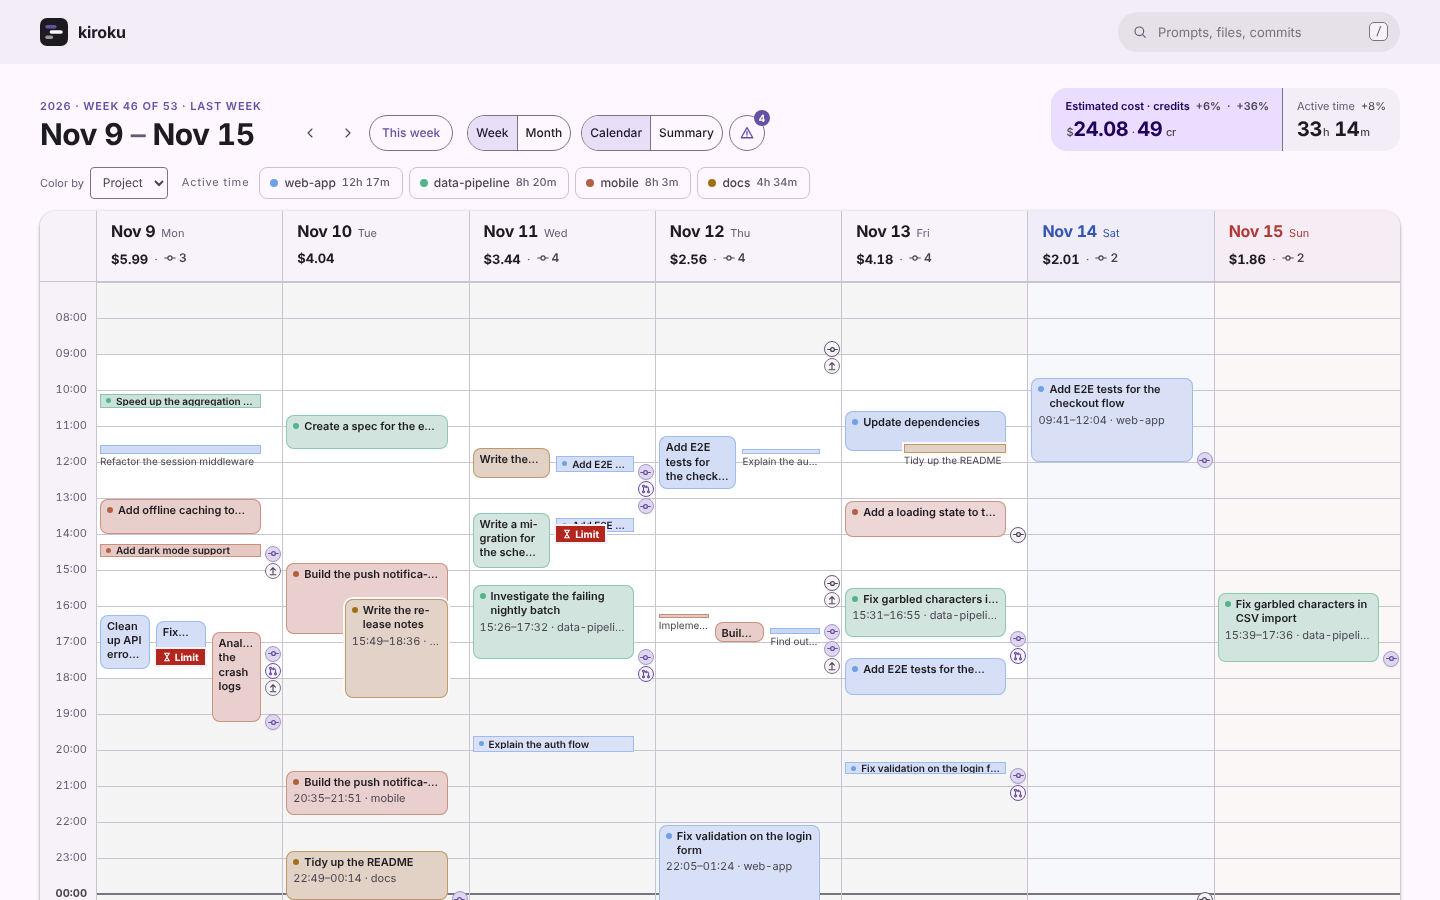
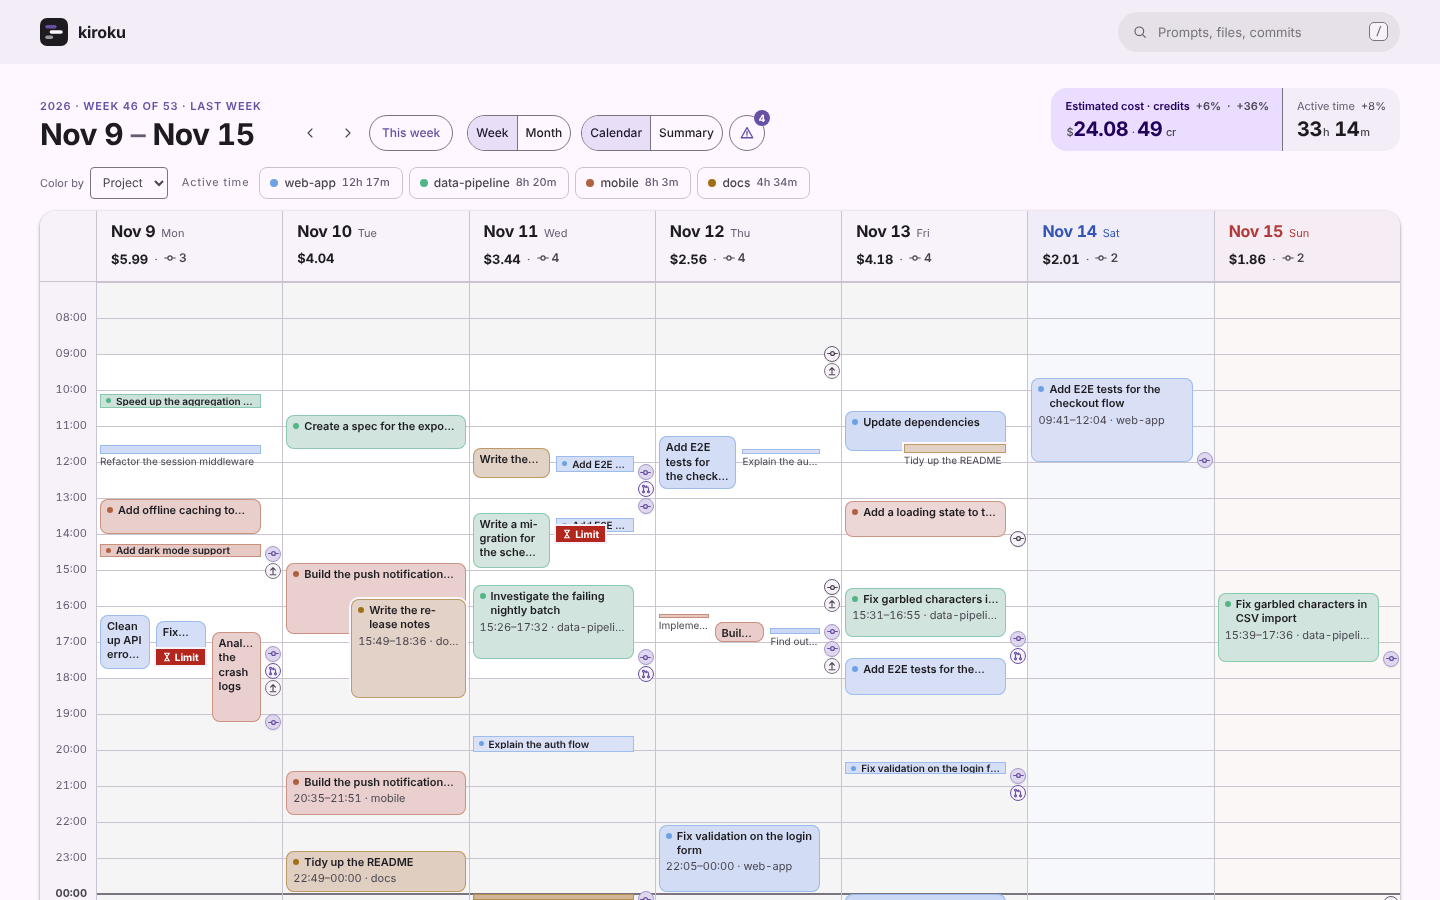
Week calendar keeps early hours in their own date's column
Draw 7:00 to midnight first and the same day's 0:00-7:00 at the bottom,
instead of moving early hours to the previous day's column. Blocks that
cross 7:00 split into the two parts. Hide the summary's agent switch in
the calendar view.

diff --git a/internal/web/js/calendar.js b/internal/web/js/calendar.js
@@ -184,17 +184,15 @@ function monthGrid(shown, ms, me, todayKey){
   T.querySelectorAll("[data-w]").forEach(b => b.onclick = () => { const [y,m,dd] = b.dataset.w.split("-").map(Number); st.week = new Date(y, m-1, dd); setMode("week"); });
 }
 
-// 週のカレンダーの 1 日は、朝 CAL_D0 時から次の朝 CAL_D0 時まで。夜中（0〜7 時）の作業はその前の日の列の下に続けて描き、
-// 最初の画面に朝からの作業の時間帯が入るようにする（夜中の記録は消さずに、前の日の夜の続きとして読める）
+// 週のカレンダーの列は、その日の 0 時から 24 時まで（見出しの数字と同じ）。描く順は、朝 CAL_D0 時から 24 時までを上に、
+// その日の 0 時から CAL_D0 時（明け方）をその下に。最初の画面に朝からの作業の時間帯が入り、明け方の作業もその日の列に残る
 const CAL_D0 = 7;
-// calY は、時刻（時。0〜23）のカレンダーの上からの位置（px）。CAL_D0 時が上の端、0 時は 24 − CAL_D0 時間ぶん下
+// calY は、時刻（時）の、列の上からの位置（px）。CAL_D0 時が上の端、0 時は 24 − CAL_D0 時間ぶん下
 function calY(h){ return ((h - CAL_D0 + 24) % 24) * (st.hh || 44); }
-// colH は、その列（day の CAL_D0 時から）の始まりから t までの時間（0〜24 時間）
-function colH(day, t){ return Math.min(24, Math.max(0, clockH0(day, t) - CAL_D0)); }
-function clockH0(d, t){ const x = new Date(t*1000); return (x.getTime() - x.getTimezoneOffset()*6e4 - Date.UTC(d.getFullYear(), d.getMonth(), d.getDate()))/36e5; } // clockH と同じで、24 時を超えても切らない
-const colStart = d => { const x = addDays(st.week, d); x.setHours(CAL_D0); return x.getTime()/1000; }; // d 列目の始まり（その日の CAL_D0 時）
+// colH は、day の列での時刻 t の縦の位置（時間。0〜24）。end なら区間の終わりとして（CAL_D0 時ちょうどは明け方の帯の下の端）
+function colH(day, t, end){ const h = clockH(day, t); return h >= CAL_D0 && !(end && h === CAL_D0) ? h - CAL_D0 : h + 24 - CAL_D0; }
 
-/* 週のカレンダー：曜日が列、時刻が縦（朝 CAL_D0 時から次の朝 CAL_D0 時まで）。重なるセッションだけ横に並べる */
+/* 週のカレンダー：曜日が列、時刻が縦（朝 CAL_D0 時から 24 時、その下に明け方）。重なるセッションだけ横に並べる */
 function timeline(shown, inWeek, ws, we, todayKey){
   const T = $("#tl"), hh = st.hh || 44, Y = x => x * hh, H = Y(24);
   if (inWeek.length && !shown.length && st.q && !DATA.some(matches)){ T.innerHTML = ""; return; } // 検索がどこにも当たらないときは、上の検索結果の「ない」だけにする
@@ -208,27 +206,27 @@ function timeline(shown, inWeek, ws, we, todayKey){
   const keep = T.querySelector(".calscroll"), top = keep ? keep.scrollTop : null;
   const nowS = nowMs()/1000, w = WEEKS[key(st.week)];
   let heads = '<div></div>', hours = "", cols = "";
-  const tws = colStart(0), twe = colStart(7), nowIn = nowS >= tws && nowS < twe; // カレンダーに描く範囲（月曜の朝から次の月曜の朝まで）
-  const nowCol = nowIn ? [0,1,2,3,4,5,6].find(d => nowS < colStart(d + 1)) : -1, nowH = nowIn ? colH(addDays(st.week, nowCol), nowS) : -9;
-  // 時刻は朝 CAL_D0+1 時から次の朝 CAL_D0−1 時まで。0 時（日付の変わり目）は線を濃くする（.day の --mid）。
+  const nowIn = nowS >= ws && nowS < we, nowCol = nowIn ? [0,1,2,3,4,5,6].find(d => nowS < addDays(st.week, d + 1).getTime()/1000) : -1, nowH = nowIn ? colH(today0(), nowS) : -9;
+  // 時刻は朝 CAL_D0+1 時から 23 時、0 時から CAL_D0−1 時。0 時（明け方の帯の始まり）は線を濃くする（.day の --mid）。
   // 今の時刻の札（高さ約 20px）に重なる時刻は、消さずに札の上か下へずらして薄く出す（12:00 が見えなくならないように）
   for (let i=1; i<24; i++){ const h = (i + CAL_D0) % 24, d = Y(i) - Y(nowH), near = nowIn && Math.abs(d) < 20;
     hours += `<span class="${[near ? "near" : "", h === 0 ? "mid" : "", h < CAL_D0 ? "late" : ""].filter(Boolean).join(" ")}" style="top:${near ? Y(nowH) + (d >= 0 ? 20 : -20) : Y(i)}px">${String(h).padStart(2,"0")}:00</span>`; }
   if (nowIn) hours += `<span class="now" style="top:${Y(nowH)}px">${hm(nowS)}</span>`;
-  shown = DATA.filter(s => s.end >= tws && s.start < twe).filter(matches); // 夜中の続き（次の月曜の朝まで）も描く
   const runs = [], un = filtering() ? 1 : 0, G = gitShown(shown), kinds = useKinds(w ? w.days : []);
   for (let d=0; d<7; d++){
-    const day = addDays(st.week,d), hds = day.getTime()/1000, hde = addDays(st.week,d+1).getTime()/1000, isToday = key(day) === todayKey;
-    const ds = colStart(d), de = colStart(d + 1); // 列に描く範囲（その日の朝 CAL_D0 時から次の朝まで）。見出しの数字は 0 時から 24 時まで（上の帯・サマリーと同じ）
+    const day = addDays(st.week,d), ds = day.getTime()/1000, de = addDays(st.week,d+1).getTime()/1000, isToday = key(day) === todayKey;
+    const d0 = new Date(day); d0.setHours(CAL_D0); const dv = d0.getTime()/1000; // その日の朝 CAL_D0 時（帯はここで上下に分ける）
     const act = w && w.days[d] ? w.days[d].active : 0;
-    const dW = w && w.days[d], nS = shown.filter(s => inP(s, hds, hde)).length;
-    const headGit = G.filter(c => c.t >= hds && c.t < hde), dayGit = G.filter(c => c.t >= ds && c.t < de).sort((a,b) => a.t - b.t);
-    heads += `<div class="head${isToday?" today":""}${wkc(day.getDay())}"><div class="dd"><b>${dMD(day)}</b><i>${dow(day.getDay())}</i>${(act || headGit.length) ? (run => `<button class="pill dayrun ${run ? "ai-action" : "ai-copy"}" data-d="${d}" type="button" aria-label="${esc(run ? t("Analyze with AI: daily report for {date}", {date: md(hds)}) : t("Copy the daily report prompt for {date}", {date: md(hds)}))}" title="${esc(run ? t("Analyze with AI: daily report for {date}", {date: md(hds)}) : t("Copy the daily report prompt for {date}", {date: md(hds)}))}">${ico(run ? "ai" : "copy")}<span>${esc(run ? t("Analyze with AI") : t("Copy prompt"))}</span></button>`)(aiRun() || aiDemo()) : ""}</div>${act || headGit.length ? `<div${tipAttr(md(hds), [`${t("Active")} ${dur(act)}`, `${t("Sessions")} ${nS}`, ...useLines(dW), `${t("Git commits")} ${headGit.length}`])}>${calLine(calRows(act, dW, nS, headGit.length, kinds, un))}</div>` : `<small>—</small>`}</div>`; // まだ来ていない日に「目安」は置かない（同じ額が上の帯の「前の週並みの 1 日の目安」にある）
+    const dW = w && w.days[d], nS = shown.filter(s => inP(s, ds, de)).length;
+    const dayGit = G.filter(c => c.t >= ds && c.t < de).sort((a,b) => a.t - b.t);
+    heads += `<div class="head${isToday?" today":""}${wkc(day.getDay())}"><div class="dd"><b>${dMD(day)}</b><i>${dow(day.getDay())}</i>${(act || dayGit.length) ? (run => `<button class="pill dayrun ${run ? "ai-action" : "ai-copy"}" data-d="${d}" type="button" aria-label="${esc(run ? t("Analyze with AI: daily report for {date}", {date: md(ds)}) : t("Copy the daily report prompt for {date}", {date: md(ds)}))}" title="${esc(run ? t("Analyze with AI: daily report for {date}", {date: md(ds)}) : t("Copy the daily report prompt for {date}", {date: md(ds)}))}">${ico(run ? "ai" : "copy")}<span>${esc(run ? t("Analyze with AI") : t("Copy prompt"))}</span></button>`)(aiRun() || aiDemo()) : ""}</div>${act || dayGit.length ? `<div${tipAttr(md(ds), [`${t("Active")} ${dur(act)}`, `${t("Sessions")} ${nS}`, ...useLines(dW), `${t("Git commits")} ${dayGit.length}`])}>${calLine(calRows(act, dW, nS, dayGit.length, kinds, un))}</div>` : `<small>—</small>`}</div>`; // まだ来ていない日に「目安」は置かない（同じ額が上の帯の「前の週並みの 1 日の目安」にある）
     const blocks = [];
-    shown.forEach(s => s.segs.forEach(([a,b,n]) => { const x = Math.max(a,ds), y = Math.min(b,de); if (y > x) blocks.push({s, a:x, b:y, n}); }));
-    blocks.sort((p,q) => p.a-q.a || q.b-p.b);
+    // 朝 CAL_D0 時をまたぐ帯は、明け方の分（下）と朝からの分（上）に分ける
+    shown.forEach(s => s.segs.forEach(([a,b,n]) => { const x = Math.max(a,ds), y = Math.min(b,de); if (y <= x) return;
+      if (x < dv && y > dv){ blocks.push({s, a:x, b:dv, n}, {s, a:dv, b:y, n}); } else blocks.push({s, a:x, b:y, n}); }));
     let html = "";
-    blocks.forEach(bk => { bk.y = Y(colH(day, bk.a)); bk.h = Math.max(4, Y(colH(day, bk.b)) - Y(colH(day, bk.a)) - 2); });
+    blocks.forEach(bk => { bk.y = Y(colH(day, bk.a)); bk.h = Math.max(4, Y(colH(day, bk.b, true)) - bk.y - 2); });
+    blocks.sort((p,q) => p.y-q.y || q.h-p.h); // 重なりの置き方は、上から順に
     // 重なる帯の置き方（l・w は溝を除いた幅に対する左端と幅の割合）。ほぼ同時に始まった帯（CASCADE px 以内。名前の 1 行目が見える高さ）はかたまりにして横に並べ、
     // それより後に始まった帯は、前の帯の上に右へずらして重ねる。前の帯は名前のある上の部分が隠れないので、幅いっぱいのまま読める
     // （重なれば最後まで 1/L の幅にすると、並行して動かすことの多い人ほど名前が数文字しか読めない）。見た目で重なるか（短い帯の下の名前も入れる）で決める
@@ -259,9 +257,9 @@ function timeline(shown, inWeek, ws, we, todayKey){
     const showP = p => (!st.hidden.size || st.colorBy !== "project" || !st.hidden.has(p.project)) && (!st.q || shown.some(s => s.project === p.project && p.t >= s.start && p.t <= s.end + 600)); // 検索中は、一致したセッションの間の push だけ（詳細のプロンプトの流れと同じ範囲）
     const marks = [...dayGit.map(c => ({t: c.t, c})),
       ...(META.push || []).filter(p => p.t >= ds && p.t < de && showP(p)).map(p => ({t: p.t, p})),
-      ...shown.flatMap(s => (s.prAt || []).filter(x => x.t >= ds && x.t < de).map(x => ({t: x.t, r: x, s})))].sort((a, b) => a.t - b.t);
+      ...shown.flatMap(s => (s.prAt || []).filter(x => x.t >= ds && x.t < de).map(x => ({t: x.t, r: x, s})))].map(m => ({...m, y0: Y(colH(day, m.t))})).sort((a, b) => a.y0 - b.y0 || a.t - b.t);
     // 印の縦の位置：重ならないよう下へ積み、日の終わり（24:00）を越える分は上へ戻す（夜遅い印が枠の外に出て見えなくならないように）
-    const ys = []; { let g = -99; marks.forEach(m => { g = Math.max(Y(colH(day, m.t)), g + 17); ys.push(g); });
+    const ys = []; { let g = -99; marks.forEach(m => { g = Math.max(m.y0, g + 17); ys.push(g); });
       for (let i = ys.length - 1; i >= 0; i--) ys[i] = Math.min(ys[i], i === ys.length - 1 ? H - 16 : ys[i+1] - 17); }
     marks.forEach(({t: at, c, p, r, s}, mi) => { // 読み上げの名前には日付も入れる（セッションと同じく、どの日のものかわかるように）
       const y = ys[mi];

diff --git a/internal/web/style.css b/internal/web/style.css
@@ -865,7 +865,7 @@ html:lang(ja){word-break:auto-phrase} /* 日本語は文節の切れ目で折り
    1 度に見せるのはどちらか 1 つ（上の期間・数字・見直す候補・凡例は共通）。
    広い画面ではページを画面に固定して、カレンダーは残りの高さいっぱい、スクロールはカレンダーの中だけにする
    （ページとカレンダーが二重にスクロールして、ホイールがカレンダーに取られないように）。境目は影と余白ではっきりさせる */
-body[data-view="cal"] #review>.rvhead,body[data-view="cal"] #review>.insight,body[data-view="cal"] #review .rvgrid>:not(.metap){display:none} /* カレンダーの表示でも、データソースとページの下（版・問題の報告）は出す */
+body[data-view="cal"] #review>.rvhead,body[data-view="cal"] #review>.insight,body[data-view="cal"] #review>.insagbar,body[data-view="cal"] #review .rvgrid>:not(.metap){display:none} /* カレンダーの表示でも、データソースとページの下（版・問題の報告）は出す */
 body[data-view="cal"] #review .rvgrid{display:block}
 body[data-view="cal"] #review{margin-top:28px} /* カレンダーの下端とデータソースのあいだを空ける */
 body[data-view="sum"] #tl,body[data-view="sum"] #skipcal{display:none}

diff --git a/docs/guide.md b/docs/guide.md
@@ -102,7 +102,7 @@ The old forms `kiroku --serve`, `--json`, `-o` and `--weekly` / `--monthly` have
   - A session's "Files edited by AI": a file changed by a commit made during that session opens the page for that file as of that commit
   - A session's "Pull requests created": opens pull requests created by AI (URLs that appeared in the results of `gh pr create` or GitHub tools)
   - A session's "History file" (under "More details" in session details): opens the original history of that session. In `kiroku serve`, "Open" saves it from the view (only history files of loaded sessions, inside the folders kiroku reads history from or `kiroku archive`'s folder, are served, and only to the view on your machine); in `kiroku html` it opens via `file://`. SQLite histories cannot be opened, so you can only copy the path
-- The page shows either the calendar or the weekly or monthly summary: switch with View "Calendar | Summary" next to Week | Month (or `V`); kiroku remembers the choice. Only the page scrolls: nothing is fixed, the top scrolls away, and the week calendar shows each day from 7:00 to 7:00 the next morning with no scroll of its own, so the working hours fit the first screen; work after midnight continues at the bottom of the previous day's column, below a darker line at 00:00. The figures under each date still count from midnight to midnight, like the band and the summary. The day headings stick under the page header while you scroll, so you always see which day is which; on narrow windows the calendar scrolls sideways and the headings follow it. When you open this week and its work starts further down, the page opens scrolled to that hour (scroll up for the figures; not in the demo). Data sources and the footer (when the page was made, the version and a link to GitHub) are at the bottom in both views.
+- The page shows either the calendar or the weekly or monthly summary: switch with View "Calendar | Summary" next to Week | Month (or `V`); kiroku remembers the choice. Only the page scrolls: nothing is fixed, the top scrolls away, and the week calendar shows the whole day with no scroll of its own, from 7:00 to midnight first, so the working hours fit the first screen, and the same day's early hours (0:00–7:00) at the bottom, below a darker line at 00:00. Work stays in the column of its date; a session running past midnight continues at the bottom of the next day's column. The day headings stick under the page header while you scroll, so you always see which day is which; on narrow windows the calendar scrolls sideways and the headings follow it. When you open this week and its work starts further down, the page opens scrolled to that hour (scroll up for the figures; not in the demo). Data sources and the footer (when the page was made, the version and a link to GitHub) are at the bottom in both views.
 - The summary is one page of cards (see [Weekly and monthly summary](#weekly-and-monthly-summary)); nothing is folded. Press a figure's value to open its breakdown, or its "?" for what it means
   - Worth a look: a metric that crossed a threshold has a small warning triangle next to its name in the summary; press it to open the same dialog as "Worth a look" above. Its 8-week trend (8 months in month view) starts at the first period with records, labels that period and the one shown with their values, and says whether higher or lower is worth a look. A metric is flagged by a fixed threshold, shown right under the headline in the dialog ("Threshold: 1+ hit"), not by being high or low within its trend. To see whether something you tried worked, check the trend in later periods
   - At the bottom, "Data sources" (history read, the newest agent version seen and record kinds kiroku doesn't know, retention and the price table for estimated cost; agents with no sessions are folded under "Not found: N") at the very bottom, always folded into one line; a ⚠ next to its name marks something that needs your attention (a file that couldn't be read, history about to be deleted at its default setting or at the next cleanup because Kiro Crew keeps it 0 days, or models not in the price table, or models priced as a similar model ID). The footer under it shows when the view was generated, the kiroku version (a link to its release) and a link to the GitHub repository; they only open in your browser when you press them. To report a problem, run `kiroku doctor --report` and paste its output (kinds and counts only) into a new issue

diff --git a/changes/calendar-7am.changed.md b/changes/calendar-7am.changed.md
@@ -1,3 +1,3 @@
-- Week calendar: each day runs from 7:00 to 7:00 the next morning, so the working hours fit the first screen; work after midnight continues at the bottom of the previous day's column, below a darker line at 00:00. The figures under each date still count from midnight
+- Week calendar: each day shows 7:00 to midnight first, so the working hours fit the first screen, and that day's early hours (0:00–7:00) at the bottom, below a darker line at 00:00. Work stays in the column of its date
 - Session details: the prompt flow looks like a messaging app: a blue-gray background, your prompts as green bubbles on the right, the AI's replies as white bubbles on the left, and events as dark labels in the middle (red for limits and interruptions)
 - Summary: the figures at the top are in one row; on narrower windows the row scrolls sideways
